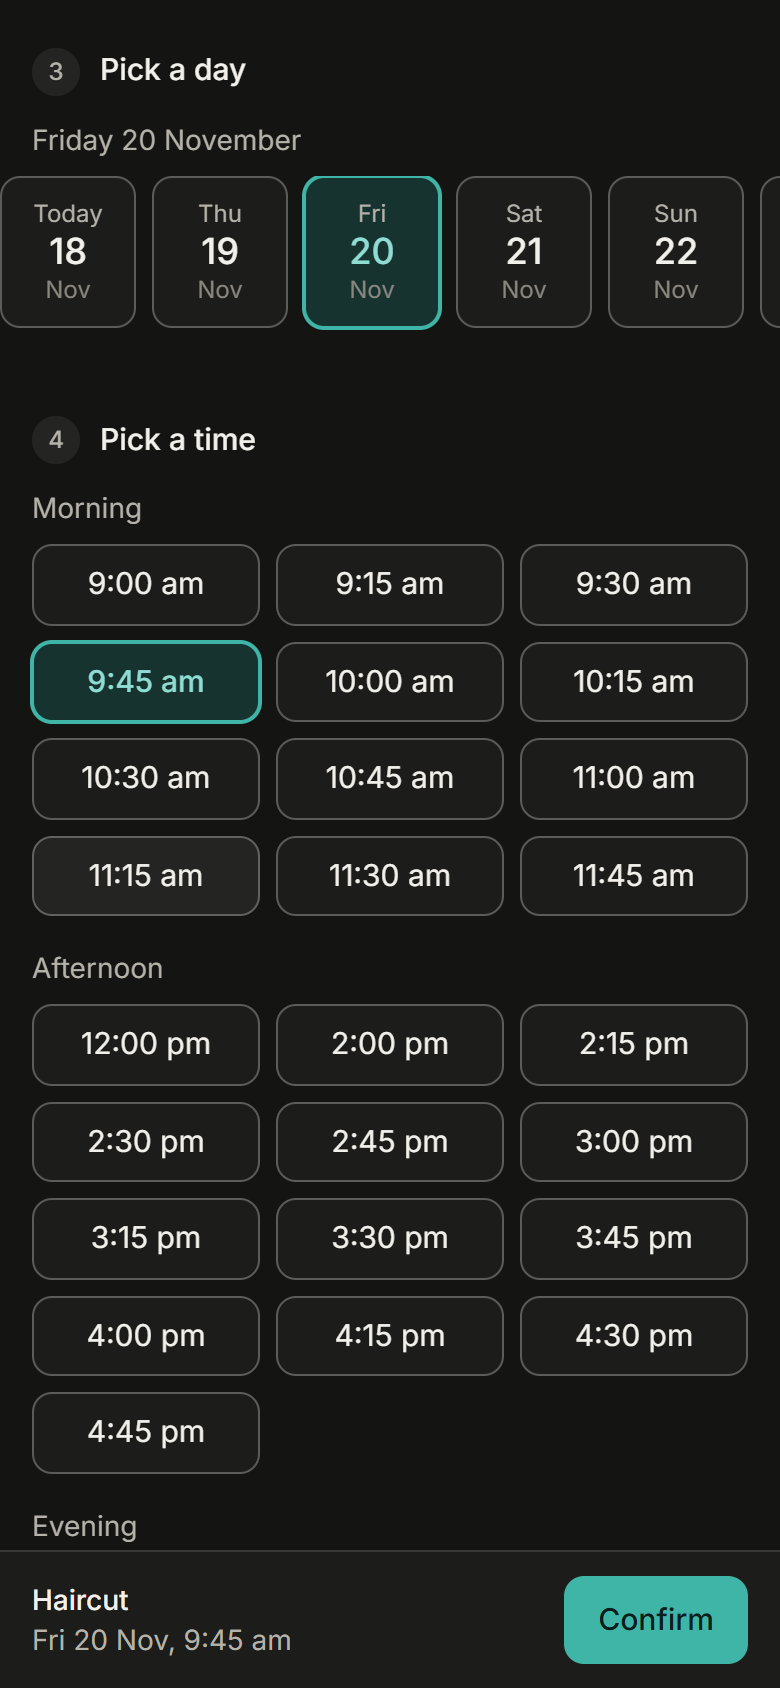
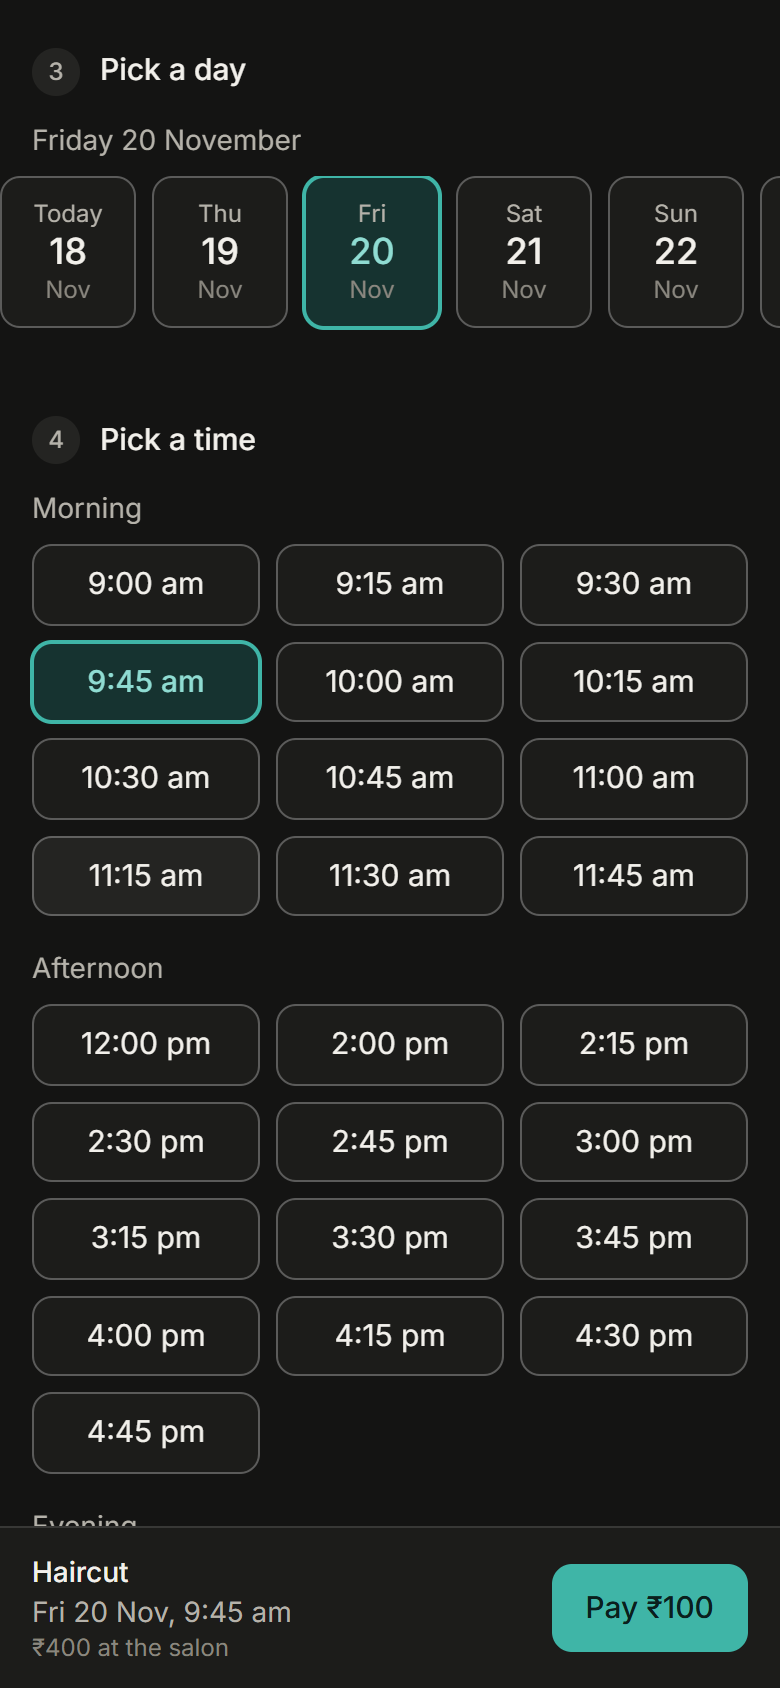
Booking page: the phone bar names the deposit
On a phone the pinned button said only "Confirm" while desktop said
"Pay ₹100 and book". Both now use one confirmLabel() ("Pay ₹100" on
the phone, with "₹400 at the salon" underneath), and the deposit is
worked out once for the summary and the bar. Phone screenshots retaken.

Changed region(s): [[0.0308, 0.8934, 0.3692, 0.9858], [0.7077, 0.9242, 0.9538, 0.9858]]

diff --git a/apps/web/src/booking/Summary.tsx b/apps/web/src/booking/Summary.tsx
@@ -36,7 +36,7 @@ export function Summary({ serviceName, durationMin, priceCents, staffLabel, when
         </div>
       </dl>
       <Button variant="primary" block className="mt-5" disabled={!whenLabel} loading={busy} onClick={onConfirm}>
-        {depositCents ? `Pay ${formatPrice(depositCents)} and book` : "Confirm booking"}
+        {confirmLabel(depositCents, "long")}
       </Button>
       <p className="mt-3 text-center text-xs text-ink-3">
         {depositCents
@@ -45,6 +45,16 @@ export function Summary({ serviceName, durationMin, priceCents, staffLabel, when
       </p>
     </div>
   );
+}
+
+/**
+ * The words on the confirm button, shared by the desktop summary and the phone bar so they
+ * can never disagree. With a deposit the button says what tapping it costs, so nobody is
+ * surprised by a payment window. "short" fits the narrow phone bar.
+ */
+export function confirmLabel(depositCents: number | null, size: "long" | "short"): string {
+  if (!depositCents) return size === "long" ? "Confirm booking" : "Confirm";
+  return size === "long" ? `Pay ${formatPrice(depositCents)} and book` : `Pay ${formatPrice(depositCents)}`;
 }
 
 // 24 → "24 hours", 1 → "1 hour", 0 → "any time"
@@ -97,15 +107,24 @@ function Row({ label, value, muted, strong }: { label: string; value: string; mu
 }
 
 // Shown on small screens once a time is picked, so the confirm button is always in reach.
-export function MobileConfirmBar({ whenLabel, serviceName, busy, onConfirm }: { whenLabel: string; serviceName: string; busy: boolean; onConfirm: () => void }) {
+export function MobileConfirmBar({ whenLabel, serviceName, busy, onConfirm, depositCents, priceCents }: {
+  whenLabel: string;
+  serviceName: string;
+  busy: boolean;
+  onConfirm: () => void;
+  depositCents: number | null; // null: nothing to pay now
+  priceCents: number;
+}) {
   return (
     <div className="fixed inset-x-0 bottom-0 z-10 flex items-center gap-3 border-t border-line bg-surface px-4 py-3 lg:hidden">
       <div className="min-w-0 flex-1">
         <p className="truncate text-sm font-medium">{serviceName}</p>
         <p className="truncate text-sm text-ink-2">{whenLabel}</p>
+        {/* The rest of the price, so "Pay ₹100" isn't mistaken for the whole cost. */}
+        {depositCents && <p className="truncate text-xs text-ink-3">{formatPrice(priceCents - depositCents)} at the salon</p>}
       </div>
-      <Button variant="primary" loading={busy} onClick={onConfirm}>
-        Confirm
+      <Button variant="primary" className="shrink-0" loading={busy} onClick={onConfirm}>
+        {confirmLabel(depositCents, "short")}
       </Button>
     </div>
   );

diff --git a/apps/web/src/booking/BookingPage.tsx b/apps/web/src/booking/BookingPage.tsx
@@ -90,6 +90,8 @@ function BookingFlow({ business }: { business: PublicBusiness }) {
   })();
 
   const whenLabel = chosenTime ? formatWhen(toStartsAt(date, chosenTime, business.timezone), business.timezone) : null;
+  // Worked out once, so the summary card and the phone bar always show the same deposit.
+  const depositCents = service ? depositFor(service.priceCents, business.depositPercent) : null;
 
   function chooseService(id: string) {
     setServiceId(id);
@@ -234,7 +236,7 @@ function BookingFlow({ business }: { business: PublicBusiness }) {
                 whenLabel={whenLabel}
                 busy={createBooking.isPending}
                 onConfirm={confirm}
-                depositCents={depositFor(service.priceCents, business.depositPercent)}
+                depositCents={depositCents}
                 freeCancelHours={business.freeCancelHours}
               />
             </aside>
@@ -242,7 +244,16 @@ function BookingFlow({ business }: { business: PublicBusiness }) {
         </div>
       )}
 
-      {service && whenLabel && <MobileConfirmBar serviceName={service.name} whenLabel={whenLabel} busy={createBooking.isPending} onConfirm={confirm} />}
+      {service && whenLabel && (
+        <MobileConfirmBar
+          serviceName={service.name}
+          whenLabel={whenLabel}
+          busy={createBooking.isPending}
+          onConfirm={confirm}
+          depositCents={depositCents}
+          priceCents={service.priceCents}
+        />
+      )}
     </div>
   );
 }

diff --git a/apps/web/src/booking/Summary.test.ts b/apps/web/src/booking/Summary.test.ts
@@ -1,0 +1,17 @@
+import { describe, expect, it } from "vitest";
+import { confirmLabel } from "./Summary";
+
+// The desktop summary and the phone bar both use confirmLabel, so a deposit is
+// always named on the button the customer actually taps.
+describe("confirmLabel", () => {
+  it("names the deposit when one is due", () => {
+    expect(confirmLabel(10_000, "long")).toBe("Pay ₹100 and book");
+    expect(confirmLabel(10_000, "short")).toBe("Pay ₹100");
+    expect(confirmLabel(19_950, "short")).toBe("Pay ₹199.50");
+  });
+
+  it("just confirms when there's nothing to pay now", () => {
+    expect(confirmLabel(null, "long")).toBe("Confirm booking");
+    expect(confirmLabel(null, "short")).toBe("Confirm");
+  });
+});

diff --git a/README.md b/README.md
@@ -33,7 +33,7 @@ Taken from the running app, with fictional sample data. Everything follows the v
 
 <p align="center">
   <img src="docs/screenshots/booking-desktop.png" alt="The booking page on a desktop: four services, a choice of staff, a day strip, open times grouped by morning, afternoon and evening, and a summary card showing a ₹500 total, ₹100 deposit now, ₹400 at the salon and a Pay ₹100 and book button" width="480">
-  <img src="docs/screenshots/booking-mobile.png" alt="The booking page on a phone: day strip, grouped times and a pinned Confirm bar" width="215">
+  <img src="docs/screenshots/booking-mobile.png" alt="The booking page on a phone: day strip, grouped times and a pinned bar with the chosen time, ₹400 at the salon and a Pay ₹100 button" width="215">
   <img src="docs/screenshots/booking-mobile-dark.png" alt="The same phone page in dark mode" width="215">
 </p>
 
